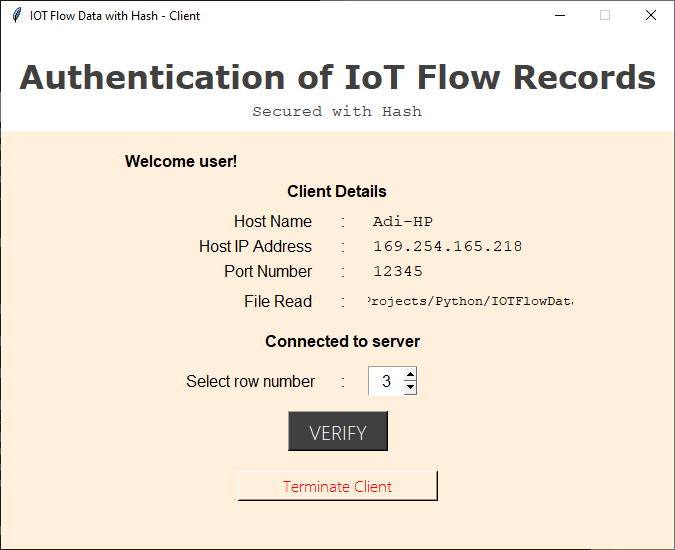
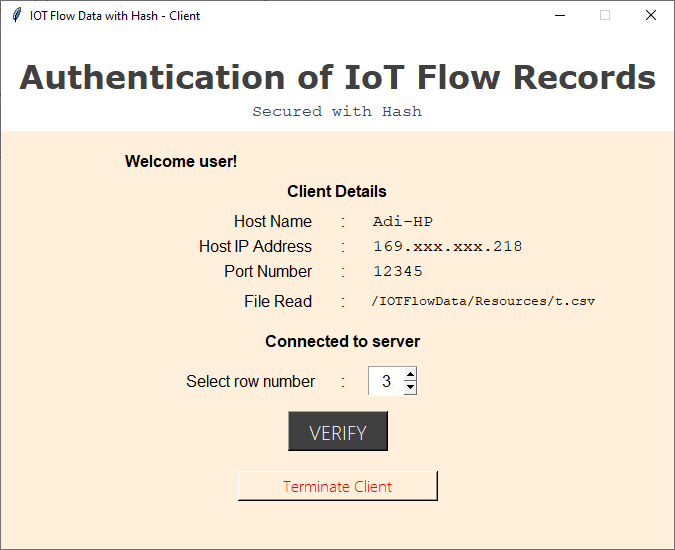
Updated with hidden client IP address

diff --git a/Asymm/GUI/fraud_client.py b/Asymm/GUI/fraud_client.py
@@ -81,6 +81,15 @@ def verifyClient():
 with socket.socket(socket.AF_INET, socket.SOCK_STREAM) as s:
 	s.connect((HOST, PORT))
 	host = socket.gethostname()
+	hn = str(socket.gethostbyname(host))
+	hostname = []
+	c = 0
+	while hn[c] != '.':
+		hostname.append(hn[c])
+		c += 1
+	hostname += ['.xxx.xxx.']
+	hostname += hn[-3:]
+	hostname = ''.join(hostname)
 
 	root = Tk()
 	root.title('IOT Flow Data with Hash - (Fraud) Client')
@@ -103,14 +112,14 @@ with socket.socket(socket.AF_INET, socket.SOCK_STREAM) as s:
 	Label(root, text = host, font = ("Courier", 12), justify = "left", bg = BG).place(x = w1 / 2 + 30, y = 180, width = 70, height = 20)
 	Label(root, text = "Host IP Address", font = ("Arial", 12), justify = "right", bg = BG).place(x = w1 / 2 - 145, y = 205, width = 125, height = 20)
 	Label(root, text = ":", font = ("Arial", 12), justify = "center", bg = BG).place(x = w1 / 2, y = 205, width = 10, height = 20)
-	Label(root, text = str(socket.gethostbyname(host)), font = ("Courier", 12), justify = "left", bg = BG).place(x = w1 / 2 + 30, y = 205, width = 160, height = 20)
+	Label(root, text = hostname, font = ("Courier", 12), justify = "left", bg = BG).place(x = w1 / 2 + 30, y = 205, width = 160, height = 20)
 	Label(root, text = "Port Number", font = ("Arial", 12), justify = "right", bg = BG).place(x = w1 / 2 - 120, y = 230, width = 100, height = 20)
 	Label(root, text = ":", font = ("Arial", 12), justify = "center", bg = BG).place(x = w1 / 2, y = 230, width = 10, height = 20)
 	Label(root, text = PORT, font = ("Courier", 12), justify = "left", bg = BG).place(x = w1 / 2 + 30, y = 230, width = 60, height = 20)
 
 	Label(root, text = "File Read", font = ("Arial", 12), justify = "right", bg = BG).place(x = w1 / 2 - 100, y = 260, width = 80, height = 20)
 	Label(root, text = ":", font = ("Arial", 12), justify = "center", bg = BG).place(x = w1 / 2, y = 260, width = 10, height = 20)
-	Label(root, text = file_path.FILE_PATH, font = ("Courier", 10), justify = "left", bg = BG).place(x = w1 / 2 + 30, y = 260, width = 205, height = 20)
+	Label(root, text = file_path.FILE_PATH[-28:], font = ("Courier", 10), justify = "left", bg = BG).place(x = w1 / 2 + 20, y = 260, width = 250, height = 20)
 
 	Label(root, text = 'Connected to server', font = ("Arial Bold", 12), bg = BG).place(x = w1 / 2 - 75, y = 300, width = 160, height = 20)
 	Label(root, text = "Select row number", font = ("Arial", 12), bg = BG).place(x = w1 / 2 - 160, y = 340, width = 145, height = 20)

diff --git a/Symm/GUI/fraud_client.py b/Symm/GUI/fraud_client.py
@@ -79,6 +79,15 @@ def verifyClient():
 with socket.socket(socket.AF_INET, socket.SOCK_STREAM) as s:
 	s.connect((HOST, PORT))
 	host = socket.gethostname()
+	hn = str(socket.gethostbyname(host))
+	hostname = []
+	c = 0
+	while hn[c] != '.':
+		hostname.append(hn[c])
+		c += 1
+	hostname += ['.xxx.xxx.']
+	hostname += hn[-3:]
+	hostname = ''.join(hostname)
 
 	root = Tk()
 	root.title('IOT Flow Data with Hash - (Fraud) Client')
@@ -101,14 +110,14 @@ with socket.socket(socket.AF_INET, socket.SOCK_STREAM) as s:
 	Label(root, text = host, font = ("Courier", 12), justify = "left", bg = BG).place(x = w1 / 2 + 30, y = 180, width = 70, height = 20)
 	Label(root, text = "Host IP Address", font = ("Arial", 12), justify = "right", bg = BG).place(x = w1 / 2 - 145, y = 205, width = 125, height = 20)
 	Label(root, text = ":", font = ("Arial", 12), justify = "center", bg = BG).place(x = w1 / 2, y = 205, width = 10, height = 20)
-	Label(root, text = str(socket.gethostbyname(host)), font = ("Courier", 12), justify = "left", bg = BG).place(x = w1 / 2 + 30, y = 205, width = 160, height = 20)
+	Label(root, text = hostname, font = ("Courier", 12), justify = "left", bg = BG).place(x = w1 / 2 + 30, y = 205, width = 160, height = 20)
 	Label(root, text = "Port Number", font = ("Arial", 12), justify = "right", bg = BG).place(x = w1 / 2 - 120, y = 230, width = 100, height = 20)
 	Label(root, text = ":", font = ("Arial", 12), justify = "center", bg = BG).place(x = w1 / 2, y = 230, width = 10, height = 20)
 	Label(root, text = PORT, font = ("Courier", 12), justify = "left", bg = BG).place(x = w1 / 2 + 30, y = 230, width = 60, height = 20)
 
 	Label(root, text = "File Read", font = ("Arial", 12), justify = "right", bg = BG).place(x = w1 / 2 - 100, y = 260, width = 80, height = 20)
 	Label(root, text = ":", font = ("Arial", 12), justify = "center", bg = BG).place(x = w1 / 2, y = 260, width = 10, height = 20)
-	Label(root, text = file_path.FILE_PATH, font = ("Courier", 10), justify = "left", bg = BG).place(x = w1 / 2 + 30, y = 260, width = 205, height = 20)
+	Label(root, text = file_path.FILE_PATH[-28:], font = ("Courier", 10), justify = "left", bg = BG).place(x = w1 / 2 + 20, y = 260, width = 250, height = 20)
 
 	Label(root, text = 'Connected to server', font = ("Arial Bold", 12), bg = BG).place(x = w1 / 2 - 75, y = 300, width = 160, height = 20)
 	Label(root, text = "Select row number", font = ("Arial", 12), bg = BG).place(x = w1 / 2 - 160, y = 340, width = 145, height = 20)

diff --git a/Hash/GUI/fraud_client.py b/Hash/GUI/fraud_client.py
@@ -50,6 +50,15 @@ def verifyClient():
 with socket.socket(socket.AF_INET, socket.SOCK_STREAM) as s:
 	s.connect((HOST, PORT))
 	host = socket.gethostname()
+	hn = str(socket.gethostbyname(host))
+	hostname = []
+	c = 0
+	while hn[c] != '.':
+		hostname.append(hn[c])
+		c += 1
+	hostname += ['.xxx.xxx.']
+	hostname += hn[-3:]
+	hostname = ''.join(hostname)
 
 	root = Tk()
 	root.title('IOT Flow Data with Hash - (Fraud) Client')
@@ -72,14 +81,14 @@ with socket.socket(socket.AF_INET, socket.SOCK_STREAM) as s:
 	Label(root, text = host, font = ("Courier", 12), justify = "left", bg = BG).place(x = w1 / 2 + 30, y = 180, width = 70, height = 20)
 	Label(root, text = "Host IP Address", font = ("Arial", 12), justify = "right", bg = BG).place(x = w1 / 2 - 145, y = 205, width = 125, height = 20)
 	Label(root, text = ":", font = ("Arial", 12), justify = "center", bg = BG).place(x = w1 / 2, y = 205, width = 10, height = 20)
-	Label(root, text = str(socket.gethostbyname(host)), font = ("Courier", 12), justify = "left", bg = BG).place(x = w1 / 2 + 30, y = 205, width = 160, height = 20)
+	Label(root, text = hostname, font = ("Courier", 12), justify = "left", bg = BG).place(x = w1 / 2 + 30, y = 205, width = 160, height = 20)
 	Label(root, text = "Port Number", font = ("Arial", 12), justify = "right", bg = BG).place(x = w1 / 2 - 120, y = 230, width = 100, height = 20)
 	Label(root, text = ":", font = ("Arial", 12), justify = "center", bg = BG).place(x = w1 / 2, y = 230, width = 10, height = 20)
 	Label(root, text = PORT, font = ("Courier", 12), justify = "left", bg = BG).place(x = w1 / 2 + 30, y = 230, width = 60, height = 20)
 
 	Label(root, text = "File Read", font = ("Arial", 12), justify = "right", bg = BG).place(x = w1 / 2 - 100, y = 260, width = 80, height = 20)
 	Label(root, text = ":", font = ("Arial", 12), justify = "center", bg = BG).place(x = w1 / 2, y = 260, width = 10, height = 20)
-	Label(root, text = file_path.FILE_PATH, font = ("Courier", 10), justify = "left", bg = BG).place(x = w1 / 2 + 30, y = 260, width = 205, height = 20)
+	Label(root, text = file_path.FILE_PATH[-28:], font = ("Courier", 10), justify = "left", bg = BG).place(x = w1 / 2 + 20, y = 260, width = 250, height = 20)
 
 	Label(root, text = 'Connected to server', font = ("Arial Bold", 12), bg = BG).place(x = w1 / 2 - 75, y = 300, width = 160, height = 20)
 	Label(root, text = "Select row number", font = ("Arial", 12), bg = BG).place(x = w1 / 2 - 160, y = 340, width = 145, height = 20)

diff --git a/Asymm/GUI/client.py b/Asymm/GUI/client.py
@@ -80,6 +80,15 @@ def verifyClient():
 with socket.socket(socket.AF_INET, socket.SOCK_STREAM) as s:
 	s.connect((HOST, PORT))
 	host = socket.gethostname()
+	hn = str(socket.gethostbyname(host))
+	hostname = []
+	c = 0
+	while hn[c] != '.':
+		hostname.append(hn[c])
+		c += 1
+	hostname += ['.xxx.xxx.']
+	hostname += hn[-3:]
+	hostname = ''.join(hostname)
 
 	root = Tk()
 	root.title('IOT Flow Data with Hash - Client')
@@ -102,14 +111,14 @@ with socket.socket(socket.AF_INET, socket.SOCK_STREAM) as s:
 	Label(root, text = host, font = ("Courier", 12), justify = "left", bg = BG).place(x = w1 / 2 + 30, y = 180, width = 70, height = 20)
 	Label(root, text = "Host IP Address", font = ("Arial", 12), justify = "right", bg = BG).place(x = w1 / 2 - 145, y = 205, width = 125, height = 20)
 	Label(root, text = ":", font = ("Arial", 12), justify = "center", bg = BG).place(x = w1 / 2, y = 205, width = 10, height = 20)
-	Label(root, text = str(socket.gethostbyname(host)), font = ("Courier", 12), justify = "left", bg = BG).place(x = w1 / 2 + 30, y = 205, width = 160, height = 20)
+	Label(root, text = hostname, font = ("Courier", 12), justify = "left", bg = BG).place(x = w1 / 2 + 30, y = 205, width = 160, height = 20)
 	Label(root, text = "Port Number", font = ("Arial", 12), justify = "right", bg = BG).place(x = w1 / 2 - 120, y = 230, width = 100, height = 20)
 	Label(root, text = ":", font = ("Arial", 12), justify = "center", bg = BG).place(x = w1 / 2, y = 230, width = 10, height = 20)
 	Label(root, text = PORT, font = ("Courier", 12), justify = "left", bg = BG).place(x = w1 / 2 + 30, y = 230, width = 60, height = 20)
 
 	Label(root, text = "File Read", font = ("Arial", 12), justify = "right", bg = BG).place(x = w1 / 2 - 100, y = 260, width = 80, height = 20)
 	Label(root, text = ":", font = ("Arial", 12), justify = "center", bg = BG).place(x = w1 / 2, y = 260, width = 10, height = 20)
-	Label(root, text = file_path.FILE_PATH, font = ("Courier", 10), justify = "left", bg = BG).place(x = w1 / 2 + 30, y = 260, width = 205, height = 20)
+	Label(root, text = file_path.FILE_PATH[-28:], font = ("Courier", 10), justify = "left", bg = BG).place(x = w1 / 2 + 20, y = 260, width = 250, height = 20)
 
 	Label(root, text = 'Connected to server', font = ("Arial Bold", 12), bg = BG).place(x = w1 / 2 - 75, y = 300, width = 160, height = 20)
 	Label(root, text = "Select row number", font = ("Arial", 12), bg = BG).place(x = w1 / 2 - 160, y = 340, width = 145, height = 20)

diff --git a/Symm/GUI/client.py b/Symm/GUI/client.py
@@ -78,6 +78,15 @@ def verifyClient():
 with socket.socket(socket.AF_INET, socket.SOCK_STREAM) as s:
 	s.connect((HOST, PORT))
 	host = socket.gethostname()
+	hn = str(socket.gethostbyname(host))
+	hostname = []
+	c = 0
+	while hn[c] != '.':
+		hostname.append(hn[c])
+		c += 1
+	hostname += ['.xxx.xxx.']
+	hostname += hn[-3:]
+	hostname = ''.join(hostname)
 
 	root = Tk()
 	root.title('IOT Flow Data with Hash - Client')
@@ -100,14 +109,14 @@ with socket.socket(socket.AF_INET, socket.SOCK_STREAM) as s:
 	Label(root, text = host, font = ("Courier", 12), justify = "left", bg = BG).place(x = w1 / 2 + 30, y = 180, width = 70, height = 20)
 	Label(root, text = "Host IP Address", font = ("Arial", 12), justify = "right", bg = BG).place(x = w1 / 2 - 145, y = 205, width = 125, height = 20)
 	Label(root, text = ":", font = ("Arial", 12), justify = "center", bg = BG).place(x = w1 / 2, y = 205, width = 10, height = 20)
-	Label(root, text = str(socket.gethostbyname(host)), font = ("Courier", 12), justify = "left", bg = BG).place(x = w1 / 2 + 30, y = 205, width = 160, height = 20)
+	Label(root, text = hostname, font = ("Courier", 12), justify = "left", bg = BG).place(x = w1 / 2 + 30, y = 205, width = 160, height = 20)
 	Label(root, text = "Port Number", font = ("Arial", 12), justify = "right", bg = BG).place(x = w1 / 2 - 120, y = 230, width = 100, height = 20)
 	Label(root, text = ":", font = ("Arial", 12), justify = "center", bg = BG).place(x = w1 / 2, y = 230, width = 10, height = 20)
 	Label(root, text = PORT, font = ("Courier", 12), justify = "left", bg = BG).place(x = w1 / 2 + 30, y = 230, width = 60, height = 20)
 
 	Label(root, text = "File Read", font = ("Arial", 12), justify = "right", bg = BG).place(x = w1 / 2 - 100, y = 260, width = 80, height = 20)
 	Label(root, text = ":", font = ("Arial", 12), justify = "center", bg = BG).place(x = w1 / 2, y = 260, width = 10, height = 20)
-	Label(root, text = file_path.FILE_PATH, font = ("Courier", 10), justify = "left", bg = BG).place(x = w1 / 2 + 30, y = 260, width = 205, height = 20)
+	Label(root, text = file_path.FILE_PATH[-28:], font = ("Courier", 10), justify = "left", bg = BG).place(x = w1 / 2 + 20, y = 260, width = 250, height = 20)
 
 	Label(root, text = 'Connected to server', font = ("Arial Bold", 12), bg = BG).place(x = w1 / 2 - 75, y = 300, width = 160, height = 20)
 	Label(root, text = "Select row number", font = ("Arial", 12), bg = BG).place(x = w1 / 2 - 160, y = 340, width = 145, height = 20)

diff --git a/Hash/GUI/client.py b/Hash/GUI/client.py
@@ -49,6 +49,15 @@ def verifyClient():
 with socket.socket(socket.AF_INET, socket.SOCK_STREAM) as s:
 	s.connect((HOST, PORT))
 	host = socket.gethostname()
+	hn = str(socket.gethostbyname(host))
+	hostname = []
+	c = 0
+	while hn[c] != '.':
+		hostname.append(hn[c])
+		c += 1
+	hostname += ['.xxx.xxx.']
+	hostname += hn[-3:]
+	hostname = ''.join(hostname)
 
 	root = Tk()
 	root.title('IOT Flow Data with Hash - Client')
@@ -71,14 +80,14 @@ with socket.socket(socket.AF_INET, socket.SOCK_STREAM) as s:
 	Label(root, text = host, font = ("Courier", 12), justify = "left", bg = BG).place(x = w1 / 2 + 30, y = 180, width = 70, height = 20)
 	Label(root, text = "Host IP Address", font = ("Arial", 12), justify = "right", bg = BG).place(x = w1 / 2 - 145, y = 205, width = 125, height = 20)
 	Label(root, text = ":", font = ("Arial", 12), justify = "center", bg = BG).place(x = w1 / 2, y = 205, width = 10, height = 20)
-	Label(root, text = str(socket.gethostbyname(host)), font = ("Courier", 12), justify = "left", bg = BG).place(x = w1 / 2 + 30, y = 205, width = 160, height = 20)
+	Label(root, text = hostname, font = ("Courier", 12), justify = "left", bg = BG).place(x = w1 / 2 + 30, y = 205, width = 160, height = 20)
 	Label(root, text = "Port Number", font = ("Arial", 12), justify = "right", bg = BG).place(x = w1 / 2 - 120, y = 230, width = 100, height = 20)
 	Label(root, text = ":", font = ("Arial", 12), justify = "center", bg = BG).place(x = w1 / 2, y = 230, width = 10, height = 20)
 	Label(root, text = PORT, font = ("Courier", 12), justify = "left", bg = BG).place(x = w1 / 2 + 30, y = 230, width = 60, height = 20)
 
 	Label(root, text = "File Read", font = ("Arial", 12), justify = "right", bg = BG).place(x = w1 / 2 - 100, y = 260, width = 80, height = 20)
 	Label(root, text = ":", font = ("Arial", 12), justify = "center", bg = BG).place(x = w1 / 2, y = 260, width = 10, height = 20)
-	Label(root, text = file_path.FILE_PATH, font = ("Courier", 10), justify = "left", bg = BG).place(x = w1 / 2 + 30, y = 260, width = 205, height = 20)
+	Label(root, text = file_path.FILE_PATH[-28:], font = ("Courier", 10), justify = "left", bg = BG).place(x = w1 / 2 + 20, y = 260, width = 250, height = 20)
 
 	Label(root, text = 'Connected to server', font = ("Arial Bold", 12), bg = BG).place(x = w1 / 2 - 75, y = 300, width = 160, height = 20)
 	Label(root, text = "Select row number", font = ("Arial", 12), bg = BG).place(x = w1 / 2 - 160, y = 340, width = 145, height = 20)

diff --git a/Asymm/GUI/server.py b/Asymm/GUI/server.py
@@ -113,7 +113,7 @@ with socket.socket(socket.AF_INET, socket.SOCK_STREAM) as s:
 
 			Label(root, text = "File Read", font = ("Arial", 12), justify = "right", bg = BG).place(x = w1 / 2 - 100, y = 260, width = 80, height = 20)
 			Label(root, text = ":", font = ("Arial", 12), justify = "center", bg = BG).place(x = w1 / 2, y = 260, width = 10, height = 20)
-			Label(root, text = file_path.FILE_PATH, font = ("Courier", 10), justify = "left", bg = BG).place(x = w1 / 2 + 30, y = 260, width = 205, height = 20)
+			Label(root, text = file_path.FILE_PATH[-28:], font = ("Courier", 10), justify = "left", bg = BG).place(x = w1 / 2 + 20, y = 260, width = 250, height = 20)
 
 			client_msg = conn.recv(13000)
 			client_msg = client_msg.decode()

diff --git a/Symm/GUI/server.py b/Symm/GUI/server.py
@@ -111,7 +111,7 @@ with socket.socket(socket.AF_INET, socket.SOCK_STREAM) as s:
 
 			Label(root, text = "File Read", font = ("Arial", 12), justify = "right", bg = BG).place(x = w1 / 2 - 100, y = 260, width = 80, height = 20)
 			Label(root, text = ":", font = ("Arial", 12), justify = "center", bg = BG).place(x = w1 / 2, y = 260, width = 10, height = 20)
-			Label(root, text = file_path.FILE_PATH, font = ("Courier", 10), justify = "left", bg = BG).place(x = w1 / 2 + 30, y = 260, width = 205, height = 20)
+			Label(root, text = file_path.FILE_PATH[-28:], font = ("Courier", 10), justify = "left", bg = BG).place(x = w1 / 2 + 20, y = 260, width = 250, height = 20)
 
 			client_msg = conn.recv(1024)
 			client_msg = client_msg.decode()

diff --git a/Hash/GUI/server.py b/Hash/GUI/server.py
@@ -91,7 +91,7 @@ with socket.socket(socket.AF_INET, socket.SOCK_STREAM) as s:
 
 			Label(root, text = "File Read", font = ("Arial", 12), justify = "right", bg = BG).place(x = w1 / 2 - 100, y = 260, width = 80, height = 20)
 			Label(root, text = ":", font = ("Arial", 12), justify = "center", bg = BG).place(x = w1 / 2, y = 260, width = 10, height = 20)
-			Label(root, text = file_path.FILE_PATH, font = ("Courier", 10), justify = "left", bg = BG).place(x = w1 / 2 + 30, y = 260, width = 205, height = 20)
+			Label(root, text = file_path.FILE_PATH[-28:], font = ("Courier", 10), justify = "left", bg = BG).place(x = w1 / 2 + 20, y = 260, width = 250, height = 20)
 
 			msg = conn.recv(1024)
 			msg = msg.decode()
